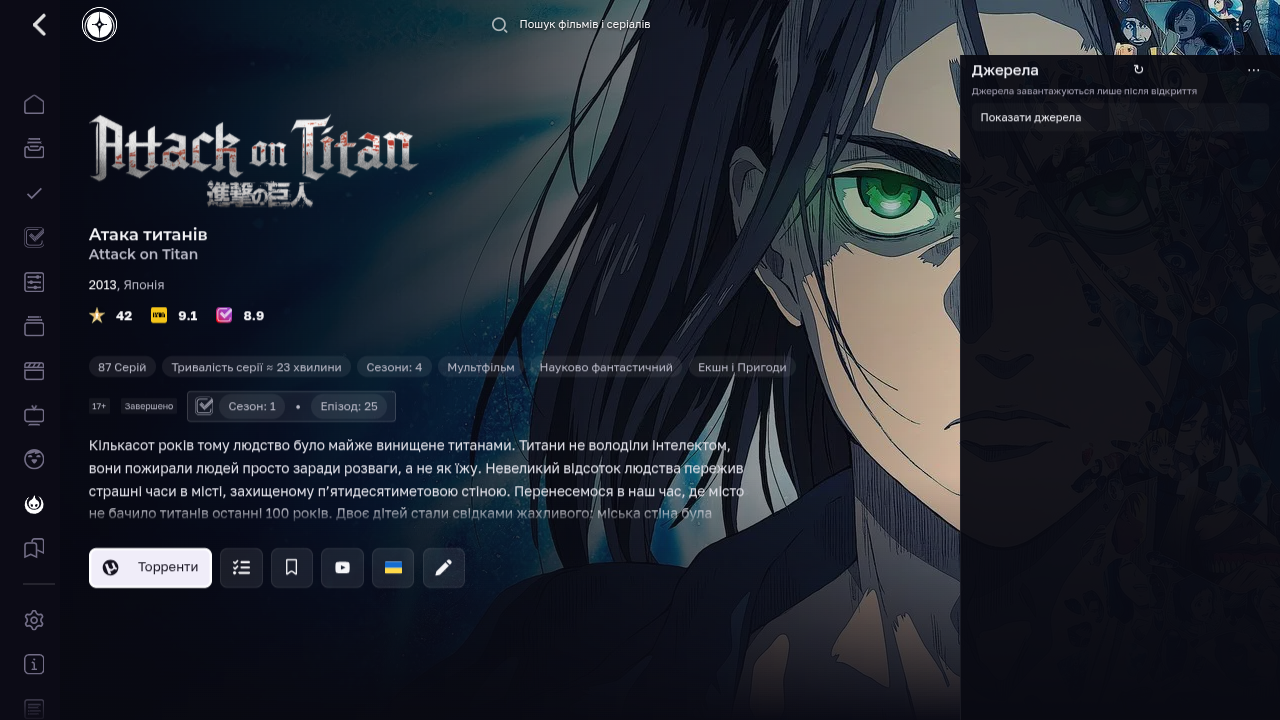
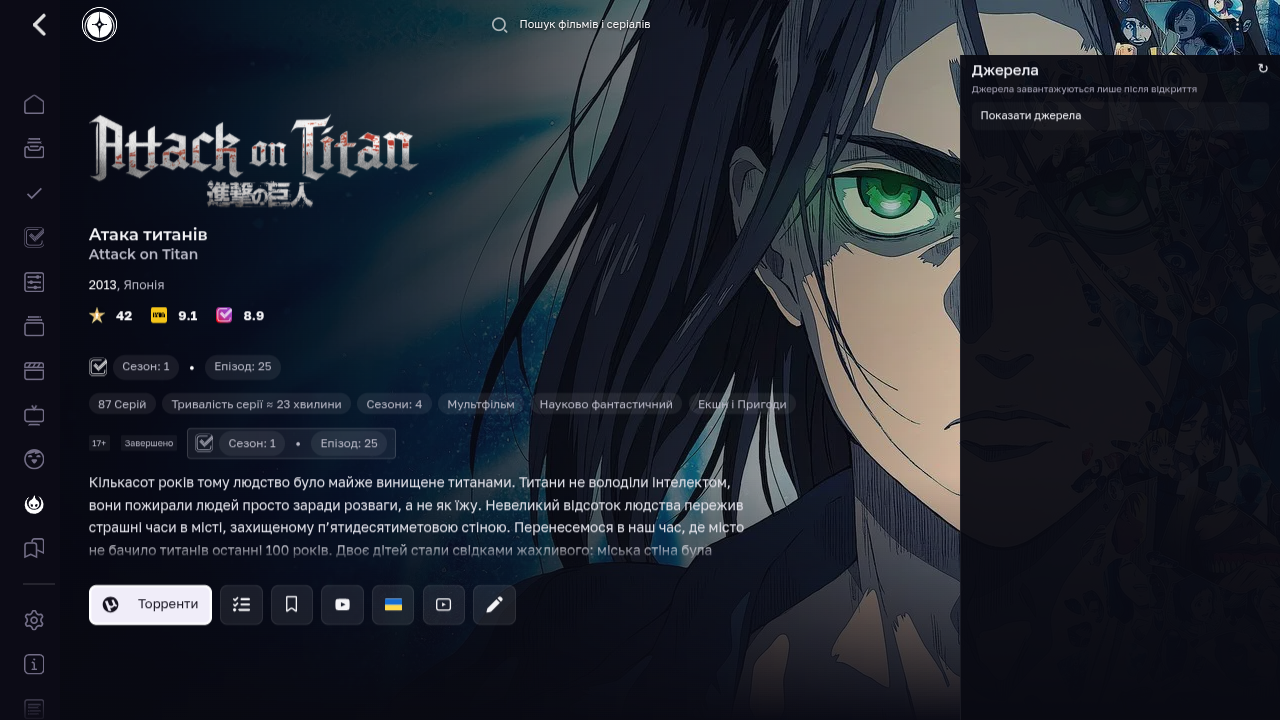
feat: style native file selection with verified episode metadata

Changed region(s): [[0.0625, 0.55, 0.625, 0.8861], [0.0625, 0.4889, 0.625, 0.5194], [0.75, 0.1222, 0.9375, 0.1833]]

diff --git a/release/stremio-hybrid/stremio-hybrid.js b/release/stremio-hybrid/stremio-hybrid.js
@@ -389,14 +389,15 @@ body.stremio-hybrid .sh-series .full-descr__text { max-height:6.6em !important; 
     function onRatingError(event){if(event.target.matches&&event.target.matches('.custom-rating .rating-icon-wrap img'))repairRatingImage(event.target);}
     function consolidateMetadata(record){
         var root=record.root,plain=root.querySelector('.cardify__details .full-start-new__details:not(.trakt)'),rich=Array.prototype.find.call(root.querySelectorAll('.full-start-new__details'),function(n){return !n.querySelector('.trakt-icon')&&!!n.querySelector('span[style]')&&/Тривалість|duration|runtime/i.test(n.textContent);});
-        if(!plain||!rich||plain===rich)return;
-        plain.classList.add('sh-metadata-shadow');rich.classList.add('sh-metadata-rich');
+        if(!rich)return;rich.classList.add('sh-metadata-rich');
+        if(!plain||plain===rich)return;
+        plain.classList.add('sh-metadata-shadow');
         if(rich.parentNode!==plain.parentNode){record.moves.push({node:rich,parent:rich.parentNode,next:rich.nextSibling});plain.parentNode.insertBefore(rich,plain);}
     }
     function updateSeriesMetadata(record){
         if(record.kind!=='tv')return;
         var movie=streamMovie(record),details=record.root.querySelector('.sh-metadata-rich')||record.root.querySelector('.cardify__details .full-start-new__details:not(.trakt)')||record.root.querySelector('.full-start-new__details:not(.trakt)');if(!details)return;
-        record.seriesFields=record.seriesFields||[];
+        (record.seriesFields||[]).forEach(function(n){n.remove();});record.seriesFields=[];
         function add(key,value){if(!value||record.seriesFields.some(function(n){return n.dataset.shField===key;}))return;var n=document.createElement('span');n.className='sh-series-field';n.dataset.shField=key;n.textContent=value;details.appendChild(n);record.seriesFields.push(n);}
         var text=details.textContent;
         if(movie.number_of_seasons>0&&!/сезон|season/i.test(text))add('seasons','Сезони: '+movie.number_of_seasons);
@@ -514,6 +515,88 @@ body.stremio-hybrid .sh-series .full-descr__text { max-height:6.6em !important; 
         ['--sm-accent','--sm-accent-rgb','--sm-accent2','--sm-accent2-rgb','--sm-accent-ink'].forEach(function(key){record.page.style.removeProperty(key);});
     }
 
+    // Files skin adapted from inspected TorrentsRedesign 1.2; native handlers stay intact.
+    css += `body.stremio-hybrid .sh-files-modal{--acc:#e0243a;--acc-rgb:224,36,58;--text:#eef1f8;--muted:#9099ad;font:clamp(1rem,1.04vw,2.6rem)/1.4 Manrope,system-ui,sans-serif;color:var(--text)}
+.ctr-select:not(.animate){visibility:hidden!important;pointer-events:none!important}
+.ctr-select .selectbox__layer{background:rgba(3,5,10,.38)!important}
+.ctr-select .selectbox__content{position:absolute!important;top:max(10vh,calc(var(--ctr-head-height,8vh) + 1.5vh));right:4.5vw;bottom:4.5vh;left:auto!important;width:38vw!important;min-width:min(26rem,91vw);height:auto!important;display:flex;flex-direction:column;padding:1em!important;background:rgba(9,12,22,.98)!important;border:1px solid rgba(255,255,255,.15);border-radius:1.1em;box-shadow:0 1em 3em rgba(0,0,0,.4);transform:none!important}
+.ctr-select .selectbox__head{padding:.35em .4em 1em!important;flex:none}
+.ctr-select .selectbox__title{font:750 1.3em/1.3 Unbounded,Manrope,system-ui,sans-serif!important}
+.ctr-select .selectbox__body{height:auto!important;min-height:0;flex:1;padding:0!important}
+.ctr-select .scroll{height:100%!important;mask-image:none!important;-webkit-mask-image:none!important}
+.ctr-select .scroll__body{padding:.35em!important}
+.ctr-select .selectbox-item{padding:.75em .8em!important;margin:0 0 .4em!important;min-height:2.8em;box-sizing:border-box;border:1px solid transparent!important;border-radius:.65em!important;background:rgba(255,255,255,.035)!important;color:var(--text)!important;font-size:1em!important}
+.ctr-select .selectbox-item__title{font-size:1em!important;white-space:normal;overflow-wrap:anywhere}
+.ctr-select .selectbox-item__subtitle{font-size:max(.8em,1rem)!important;color:var(--muted)}
+.ctr-select .selectbox-item.selected{border-color:rgba(var(--acc-rgb),.45)!important;background:rgba(var(--acc-rgb),.14)!important}
+.ctr-select .selectbox-item.focus,.ctr-select .selectbox-item:hover{border-color:#fff!important;background:rgba(var(--acc-rgb),.32)!important;box-shadow:0 0 0 .12em rgba(var(--acc-rgb),.6)!important;color:#fff!important}
+body.ctr-files-open .ctr>.explorer__files{visibility:hidden}
+body.ctr-files-open .ctr-actions{opacity:.45}
+body.stremio-hybrid .sh-files-modal{background:linear-gradient(90deg,rgba(7,9,16,.08) 25%,rgba(7,9,16,.3) 55%,rgba(7,9,16,.6))!important;inset:0!important;padding:0!important}
+body.stremio-hybrid .sh-files-modal .modal__content{position:absolute!important;top:max(10vh,calc(var(--ctr-head-height,8vh) + 1.5vh));right:4.5vw;bottom:4.5vh;left:auto!important;width:60vw!important;max-width:none!important;max-height:none!important;margin:0!important;padding:1em!important;display:flex!important;flex-direction:column;background:rgba(9,12,22,.96)!important;border:1px solid rgba(255,255,255,.15);border-radius:1.1em;box-shadow:0 1em 3em rgba(0,0,0,.3)}
+body.stremio-hybrid .sh-files-modal .modal__head{padding:.2em .4em .75em!important;flex:none}
+body.stremio-hybrid .sh-files-modal .modal__title{font:750 1.35em/1.3 Unbounded,Manrope,system-ui,sans-serif!important;margin:0!important}
+body.stremio-hybrid .sh-files-modal .sh-files-summary{font-size:max(.85em,1rem);color:var(--muted);margin-top:.3em}
+body.stremio-hybrid .sh-files-modal .modal__body{flex:1;min-height:0;padding:0!important}
+body.stremio-hybrid .sh-files-modal .scroll{height:100%!important;mask-image:none!important;-webkit-mask-image:none!important}
+body.stremio-hybrid .sh-files-modal .scroll__content{max-height:100%!important}
+body.stremio-hybrid .sh-files-modal .scroll__body{padding:.4em .4em 1em!important}
+body.stremio-hybrid .sh-files-modal .torrnet-folder-name{font:650 1em/1.4 Manrope,system-ui,sans-serif!important;color:#b8c1d5!important;padding:.65em .5em!important;margin:0 0 .5em!important;border-radius:.5em;background:rgba(var(--acc-rgb),.08)!important;overflow-wrap:anywhere}
+body.stremio-hybrid .sh-files-modal .torrent-serial,body.stremio-hybrid .sh-files-modal .torrent-file{display:grid!important;position:relative!important;grid-template-columns:7.5em minmax(0,1fr) auto;gap:.85em;align-items:center;width:100%!important;min-height:5em!important;margin:0 0 .55em!important;padding:.55em!important;border:1px solid transparent!important;border-radius:.7em!important;background:rgba(255,255,255,.04)!important;color:var(--text)!important;box-sizing:border-box;overflow:visible!important}
+body.stremio-hybrid .sh-files-modal .torrent-serial.focus,body.stremio-hybrid .sh-files-modal .torrent-file.focus,body.stremio-hybrid .sh-files-modal .torrnet-folder-name.focus,body.stremio-hybrid .sh-files-modal .torrent-serial:hover,body.stremio-hybrid .sh-files-modal .torrent-file:hover{border:1px solid #fff!important;background:rgba(var(--acc-rgb),.14)!important;box-shadow:0 0 0 .12em rgba(var(--acc-rgb),.65)!important;transform:none!important}
+body.stremio-hybrid .sh-files-modal .torrent-serial__img{position:static!important;width:7.5em!important;height:4.2em!important;object-fit:cover;border-radius:.4em;opacity:.95;float:none!important}
+body.stremio-hybrid .sh-files-modal .torrent-serial__content{display:grid!important;grid-template-columns:minmax(0,1fr) max(5em,6rem);gap:.25em .65em;padding:0!important;margin:0!important;min-width:0;width:auto!important;grid-column:2 / 4;align-items:center}
+body.stremio-hybrid .sh-files-modal .torrent-serial__body{min-width:0;float:none!important;width:auto!important}
+body.stremio-hybrid .sh-files-modal .torrent-serial__title,body.stremio-hybrid .sh-files-modal .torrent-file__title{font-size:1.05em!important;font-weight:700;line-height:1.35;white-space:normal;overflow-wrap:anywhere}
+body.stremio-hybrid .sh-files-modal .torrent-serial__line{font-size:max(.8em,1rem)!important;color:var(--muted);margin:.25em 0!important;display:flex;flex-wrap:wrap;gap:.2em .75em}
+body.stremio-hybrid .sh-files-modal .torrent-serial__detail{position:static!important;float:none!important;text-align:right;white-space:nowrap}
+body.stremio-hybrid .sh-files-modal .torrent-serial__size,body.stremio-hybrid .sh-files-modal .torrent-file__size{font-size:1em!important;font-weight:800;background:none!important;padding:0!important}
+body.stremio-hybrid .sh-files-modal .torrent-serial__exe,body.stremio-hybrid .sh-files-modal .torrent-file .exe{font-size:max(.8em,1rem)!important;color:var(--muted);margin-top:.2em}
+body.stremio-hybrid .sh-files-modal .torrent-serial__episode{position:absolute!important;top:.65em!important;left:.65em!important;right:auto!important;bottom:auto!important;font-size:max(.8em,1rem)!important;padding:.15em .35em!important;min-width:1.4em;border-radius:.3em;background:rgba(7,9,16,.82)!important}
+body.stremio-hybrid .sh-files-modal .torrent-serial__clear{display:none!important}
+body.stremio-hybrid .sh-files-modal .time-line{grid-column:1 / -1;margin:.35em 0 0!important;height:.18em!important;background:rgba(255,255,255,.12)!important;border-radius:1em}
+body.stremio-hybrid .sh-files-modal .time-line>div{background:var(--acc)!important;height:100%!important;border-radius:inherit}
+body.stremio-hybrid .sh-files-modal .torrent-file{grid-template-columns:minmax(0,1fr) auto;min-height:3.5em!important}
+body.stremio-hybrid .sh-files-modal .torrent-file__size{position:static!important;float:none!important}
+
+body.stremio-hybrid .sh-files-modal{position:fixed!important;width:100vw!important;height:100vh!important;transform:none!important}
+body.stremio-hybrid .sh-files-modal .modal__content{transform:none!important}
+@media(max-width:800px){body.stremio-hybrid .sh-files-modal .modal__content{width:91vw!important}}
+body.stremio-hybrid .sh-file-rating{grid-column:1/-1;color:#f5d48d;font-size:.9em}
+`;
+    var filesOverlay=null;
+    function streamRecord(){return movieRecords.filter(function(r){return r.streamChild&&!r.streamChild.dead&&r.page.classList.contains('activity--active');})[0];}
+    function clearStreamFiles(){
+        if(!filesOverlay)return;var node=filesOverlay.node;
+        node.classList.remove('sh-files-modal');node.querySelectorAll('.sh-files-summary,.sh-file-rating').forEach(function(n){n.remove();});
+        Object.keys(filesOverlay.tokens).forEach(function(key){var t=filesOverlay.tokens[key];if(node.style.getPropertyValue(key)===t.ours){if(t.before)node.style.setProperty(key,t.before);else node.style.removeProperty(key);}});filesOverlay=null;
+    }
+    function onStreamFiles(event){
+        var record=streamRecord(),node=event&&event.html&&(event.html[0]||event.html);
+        if(!node||!node.querySelector('.torrent-files'))return;
+        if(!record)return;
+        if(filesOverlay&&filesOverlay.node!==node)clearStreamFiles();
+        if(!filesOverlay)filesOverlay={node:node,tokens:{}};
+        node.classList.add('sh-files-modal');
+        var styles=getComputedStyle(record.page),tokens={'--acc':styles.getPropertyValue('--sm-accent').trim()||'#9775fa','--acc-rgb':styles.getPropertyValue('--sm-accent-rgb').trim()||'151,117,250','--muted':'#aeb6c9','--text':'#eef1f8','--ctr-head-height':(document.querySelector('.head').getBoundingClientRect().height/innerHeight*100)+'vh'};
+        Object.keys(tokens).forEach(function(key){if(!filesOverlay.tokens[key])filesOverlay.tokens[key]={before:node.style.getPropertyValue(key),ours:tokens[key]};node.style.setProperty(key,tokens[key]);});
+        var head=node.querySelector('.modal__head'),summary=node.querySelector('.sh-files-summary');if(!summary&&head){summary=document.createElement('div');summary.className='sh-files-summary';head.appendChild(summary);}
+        var movie=streamMovie(record);if(summary)summary.textContent=(movie.title||movie.name||'')+' · Файлів: '+node.querySelectorAll('.torrent-serial,.torrent-file').length;
+    }
+    function onStreamFile(event){
+        var record=streamRecord();if(!record||record.kind!=='tv'||!event||event.type!=='render')return;
+        var params=event.params||{},file=event.element||{},node=event.item&&(event.item[0]||event.item);
+        if(!node||!params.movie||String(params.movie.id)!==String(streamMovie(record).id)||node.querySelector('.sh-file-rating,.ctr-episode-rating'))return;
+        var season=Number(file.season),episode=Number(file.episode);
+        if(file.season==null||file.episode==null||!Number.isInteger(season)||season<0||!Number.isInteger(episode)||episode<1||(file.episodes&&file.episodes.length>1))return;
+        var data=params.seasons&&params.seasons[season],episodes=data&&data.episodes;
+        if(!Array.isArray(episodes))return;
+        var matches=episodes.filter(function(e){return e.id&&Number(e.episode_number)===episode&&(e.season_number==null||Number(e.season_number)===season);});
+        if(matches.length!==1)return;var rating=Number(matches[0].vote_average);
+        // Use already loaded episode metadata only; never borrow the series score or read API credentials.
+        if(!(rating>0&&rating<=10))return;
+        var badge=document.createElement('div');badge.className='sh-file-rating';badge.textContent='TMDB '+rating.toFixed(1);badge.title='S'+season+'E'+episode;node.querySelector('.torrent-serial__content')?.appendChild(badge);
+    }
     var streamCache=[], streamGeneration=0;
     function streamMovie(record) {
         var movie=record.activity.component.props && record.activity.component.props.get('movie');
@@ -689,6 +772,7 @@ body.stremio-hybrid .sh-series .full-descr__text { max-height:6.6em !important; 
     }
     function closeStreamChild(record) {
         var st=record.streamChild;if(!st)return;
+        clearStreamFiles();
         if(streamSelectOwner===st){clearStreamSelect();Lampa.Select.close();streamInfo(record);}
         st.dead=true;record.streamChild=null;
         if(st.queryFilter){var enabled=Lampa.Controller.enabled();if(document.querySelector('.search-box')&&enabled.controller&&typeof enabled.controller.back==='function')enabled.controller.back();disposeStreamQuery(st);}
@@ -903,13 +987,13 @@ body.stremio-hybrid .sh-series .full-descr__text { max-height:6.6em !important; 
         backdropApi=null;backdropGet=null;backdropWrapper=null;backdropRotation=null;
     }
     function setupUI() {
-        if (!watching) { Lampa.Listener.follow('activity', onActivity); Lampa.Listener.follow('full',onMovieFull); Lampa.Controller.listener.follow('toggle',onStreamController); Lampa.Select.listener.follow('fullshow',onStreamSelect); Lampa.Select.listener.follow('hide',clearStreamSelect); Lampa.Storage.listener.follow('change',onStreamSettings); Lampa.Search.listener.follow('close', onSearchClose); Lampa.Search.listener.follow('sources',onSearchSources); Lampa.Settings.listener.follow('open',onSettingsOpen); Lampa.Settings.listener.follow('close',onSettingsClose); document.addEventListener('error',onRatingError,true); document.addEventListener('keydown',onSettingsKey,true); document.addEventListener('keyup',onSettingsKey,true); installSettingsController(); watching=true; installBackdropPacing(); }
+        if (!watching) { Lampa.Listener.follow('activity', onActivity); Lampa.Listener.follow('full',onMovieFull); Lampa.Controller.listener.follow('toggle',onStreamController); Lampa.Modal.listener.follow('fullshow',onStreamFiles); Lampa.Modal.listener.follow('update',onStreamFiles); Lampa.Modal.listener.follow('close',clearStreamFiles); Lampa.Listener.follow('torrent_file',onStreamFile); Lampa.Select.listener.follow('fullshow',onStreamSelect); Lampa.Select.listener.follow('hide',clearStreamSelect); Lampa.Storage.listener.follow('change',onStreamSettings); Lampa.Search.listener.follow('close', onSearchClose); Lampa.Search.listener.follow('sources',onSearchSources); Lampa.Settings.listener.follow('open',onSettingsOpen); Lampa.Settings.listener.follow('close',onSettingsClose); document.addEventListener('error',onRatingError,true); document.addEventListener('keydown',onSettingsKey,true); document.addEventListener('keyup',onSettingsKey,true); installSettingsController(); watching=true; installBackdropPacing(); }
         setupHeader(); scheduleMovie();
         if(document.body.classList.contains('settings--open')) onSettingsOpen({name:'resume'});
     }
     function removeUI() {
         removeBackdropPacing();
-        if (watching) { Lampa.Listener.remove('activity', onActivity); Lampa.Listener.remove('full',onMovieFull); Lampa.Controller.listener.remove('toggle',onStreamController); Lampa.Select.listener.remove('fullshow',onStreamSelect); Lampa.Select.listener.remove('hide',clearStreamSelect); Lampa.Storage.listener.remove('change',onStreamSettings); streamCache=[]; brandPending={}; Lampa.Search.listener.remove('close', onSearchClose); Lampa.Search.listener.remove('sources',onSearchSources); Lampa.Settings.listener.remove('open',onSettingsOpen); Lampa.Settings.listener.remove('close',onSettingsClose); document.removeEventListener('error',onRatingError,true); document.removeEventListener('keydown',onSettingsKey,true); document.removeEventListener('keyup',onSettingsKey,true); settingsLeftConsumed=false; watching=false; }
+        if (watching) { Lampa.Listener.remove('activity', onActivity); Lampa.Listener.remove('full',onMovieFull); Lampa.Controller.listener.remove('toggle',onStreamController); Lampa.Modal.listener.remove('fullshow',onStreamFiles); Lampa.Modal.listener.remove('update',onStreamFiles); Lampa.Modal.listener.remove('close',clearStreamFiles); Lampa.Listener.remove('torrent_file',onStreamFile); clearStreamFiles(); Lampa.Select.listener.remove('fullshow',onStreamSelect); Lampa.Select.listener.remove('hide',clearStreamSelect); Lampa.Storage.listener.remove('change',onStreamSettings); streamCache=[]; brandPending={}; Lampa.Search.listener.remove('close', onSearchClose); Lampa.Search.listener.remove('sources',onSearchSources); Lampa.Settings.listener.remove('open',onSettingsOpen); Lampa.Settings.listener.remove('close',onSettingsClose); document.removeEventListener('error',onRatingError,true); document.removeEventListener('keydown',onSettingsKey,true); document.removeEventListener('keyup',onSettingsKey,true); settingsLeftConsumed=false; watching=false; }
         removeSettingsUI();
         removeMovies();clearStreamSelect();
         clearSearchSources();
@@ -1085,7 +1169,7 @@ body.stremio-hybrid .sh-series .full-descr__text { max-height:6.6em !important; 
         apply(enabled());
     }
     window.StremioHybrid = {
-        version: '2.5.0',
+        version: '2.5.1',
         setEnabled: setEnabled,
         refresh: function () { if (ready) apply(enabled()); },
         destroy: function () {

diff --git a/ui/stremio-hybrid.js b/ui/stremio-hybrid.js
@@ -389,14 +389,15 @@ body.stremio-hybrid .sh-series .full-descr__text { max-height:6.6em !important; 
     function onRatingError(event){if(event.target.matches&&event.target.matches('.custom-rating .rating-icon-wrap img'))repairRatingImage(event.target);}
     function consolidateMetadata(record){
         var root=record.root,plain=root.querySelector('.cardify__details .full-start-new__details:not(.trakt)'),rich=Array.prototype.find.call(root.querySelectorAll('.full-start-new__details'),function(n){return !n.querySelector('.trakt-icon')&&!!n.querySelector('span[style]')&&/Тривалість|duration|runtime/i.test(n.textContent);});
-        if(!plain||!rich||plain===rich)return;
-        plain.classList.add('sh-metadata-shadow');rich.classList.add('sh-metadata-rich');
+        if(!rich)return;rich.classList.add('sh-metadata-rich');
+        if(!plain||plain===rich)return;
+        plain.classList.add('sh-metadata-shadow');
         if(rich.parentNode!==plain.parentNode){record.moves.push({node:rich,parent:rich.parentNode,next:rich.nextSibling});plain.parentNode.insertBefore(rich,plain);}
     }
     function updateSeriesMetadata(record){
         if(record.kind!=='tv')return;
         var movie=streamMovie(record),details=record.root.querySelector('.sh-metadata-rich')||record.root.querySelector('.cardify__details .full-start-new__details:not(.trakt)')||record.root.querySelector('.full-start-new__details:not(.trakt)');if(!details)return;
-        record.seriesFields=record.seriesFields||[];
+        (record.seriesFields||[]).forEach(function(n){n.remove();});record.seriesFields=[];
         function add(key,value){if(!value||record.seriesFields.some(function(n){return n.dataset.shField===key;}))return;var n=document.createElement('span');n.className='sh-series-field';n.dataset.shField=key;n.textContent=value;details.appendChild(n);record.seriesFields.push(n);}
         var text=details.textContent;
         if(movie.number_of_seasons>0&&!/сезон|season/i.test(text))add('seasons','Сезони: '+movie.number_of_seasons);
@@ -514,6 +515,88 @@ body.stremio-hybrid .sh-series .full-descr__text { max-height:6.6em !important; 
         ['--sm-accent','--sm-accent-rgb','--sm-accent2','--sm-accent2-rgb','--sm-accent-ink'].forEach(function(key){record.page.style.removeProperty(key);});
     }
 
+    // Files skin adapted from inspected TorrentsRedesign 1.2; native handlers stay intact.
+    css += `body.stremio-hybrid .sh-files-modal{--acc:#e0243a;--acc-rgb:224,36,58;--text:#eef1f8;--muted:#9099ad;font:clamp(1rem,1.04vw,2.6rem)/1.4 Manrope,system-ui,sans-serif;color:var(--text)}
+.ctr-select:not(.animate){visibility:hidden!important;pointer-events:none!important}
+.ctr-select .selectbox__layer{background:rgba(3,5,10,.38)!important}
+.ctr-select .selectbox__content{position:absolute!important;top:max(10vh,calc(var(--ctr-head-height,8vh) + 1.5vh));right:4.5vw;bottom:4.5vh;left:auto!important;width:38vw!important;min-width:min(26rem,91vw);height:auto!important;display:flex;flex-direction:column;padding:1em!important;background:rgba(9,12,22,.98)!important;border:1px solid rgba(255,255,255,.15);border-radius:1.1em;box-shadow:0 1em 3em rgba(0,0,0,.4);transform:none!important}
+.ctr-select .selectbox__head{padding:.35em .4em 1em!important;flex:none}
+.ctr-select .selectbox__title{font:750 1.3em/1.3 Unbounded,Manrope,system-ui,sans-serif!important}
+.ctr-select .selectbox__body{height:auto!important;min-height:0;flex:1;padding:0!important}
+.ctr-select .scroll{height:100%!important;mask-image:none!important;-webkit-mask-image:none!important}
+.ctr-select .scroll__body{padding:.35em!important}
+.ctr-select .selectbox-item{padding:.75em .8em!important;margin:0 0 .4em!important;min-height:2.8em;box-sizing:border-box;border:1px solid transparent!important;border-radius:.65em!important;background:rgba(255,255,255,.035)!important;color:var(--text)!important;font-size:1em!important}
+.ctr-select .selectbox-item__title{font-size:1em!important;white-space:normal;overflow-wrap:anywhere}
+.ctr-select .selectbox-item__subtitle{font-size:max(.8em,1rem)!important;color:var(--muted)}
+.ctr-select .selectbox-item.selected{border-color:rgba(var(--acc-rgb),.45)!important;background:rgba(var(--acc-rgb),.14)!important}
+.ctr-select .selectbox-item.focus,.ctr-select .selectbox-item:hover{border-color:#fff!important;background:rgba(var(--acc-rgb),.32)!important;box-shadow:0 0 0 .12em rgba(var(--acc-rgb),.6)!important;color:#fff!important}
+body.ctr-files-open .ctr>.explorer__files{visibility:hidden}
+body.ctr-files-open .ctr-actions{opacity:.45}
+body.stremio-hybrid .sh-files-modal{background:linear-gradient(90deg,rgba(7,9,16,.08) 25%,rgba(7,9,16,.3) 55%,rgba(7,9,16,.6))!important;inset:0!important;padding:0!important}
+body.stremio-hybrid .sh-files-modal .modal__content{position:absolute!important;top:max(10vh,calc(var(--ctr-head-height,8vh) + 1.5vh));right:4.5vw;bottom:4.5vh;left:auto!important;width:60vw!important;max-width:none!important;max-height:none!important;margin:0!important;padding:1em!important;display:flex!important;flex-direction:column;background:rgba(9,12,22,.96)!important;border:1px solid rgba(255,255,255,.15);border-radius:1.1em;box-shadow:0 1em 3em rgba(0,0,0,.3)}
+body.stremio-hybrid .sh-files-modal .modal__head{padding:.2em .4em .75em!important;flex:none}
+body.stremio-hybrid .sh-files-modal .modal__title{font:750 1.35em/1.3 Unbounded,Manrope,system-ui,sans-serif!important;margin:0!important}
+body.stremio-hybrid .sh-files-modal .sh-files-summary{font-size:max(.85em,1rem);color:var(--muted);margin-top:.3em}
+body.stremio-hybrid .sh-files-modal .modal__body{flex:1;min-height:0;padding:0!important}
+body.stremio-hybrid .sh-files-modal .scroll{height:100%!important;mask-image:none!important;-webkit-mask-image:none!important}
+body.stremio-hybrid .sh-files-modal .scroll__content{max-height:100%!important}
+body.stremio-hybrid .sh-files-modal .scroll__body{padding:.4em .4em 1em!important}
+body.stremio-hybrid .sh-files-modal .torrnet-folder-name{font:650 1em/1.4 Manrope,system-ui,sans-serif!important;color:#b8c1d5!important;padding:.65em .5em!important;margin:0 0 .5em!important;border-radius:.5em;background:rgba(var(--acc-rgb),.08)!important;overflow-wrap:anywhere}
+body.stremio-hybrid .sh-files-modal .torrent-serial,body.stremio-hybrid .sh-files-modal .torrent-file{display:grid!important;position:relative!important;grid-template-columns:7.5em minmax(0,1fr) auto;gap:.85em;align-items:center;width:100%!important;min-height:5em!important;margin:0 0 .55em!important;padding:.55em!important;border:1px solid transparent!important;border-radius:.7em!important;background:rgba(255,255,255,.04)!important;color:var(--text)!important;box-sizing:border-box;overflow:visible!important}
+body.stremio-hybrid .sh-files-modal .torrent-serial.focus,body.stremio-hybrid .sh-files-modal .torrent-file.focus,body.stremio-hybrid .sh-files-modal .torrnet-folder-name.focus,body.stremio-hybrid .sh-files-modal .torrent-serial:hover,body.stremio-hybrid .sh-files-modal .torrent-file:hover{border:1px solid #fff!important;background:rgba(var(--acc-rgb),.14)!important;box-shadow:0 0 0 .12em rgba(var(--acc-rgb),.65)!important;transform:none!important}
+body.stremio-hybrid .sh-files-modal .torrent-serial__img{position:static!important;width:7.5em!important;height:4.2em!important;object-fit:cover;border-radius:.4em;opacity:.95;float:none!important}
+body.stremio-hybrid .sh-files-modal .torrent-serial__content{display:grid!important;grid-template-columns:minmax(0,1fr) max(5em,6rem);gap:.25em .65em;padding:0!important;margin:0!important;min-width:0;width:auto!important;grid-column:2 / 4;align-items:center}
+body.stremio-hybrid .sh-files-modal .torrent-serial__body{min-width:0;float:none!important;width:auto!important}
+body.stremio-hybrid .sh-files-modal .torrent-serial__title,body.stremio-hybrid .sh-files-modal .torrent-file__title{font-size:1.05em!important;font-weight:700;line-height:1.35;white-space:normal;overflow-wrap:anywhere}
+body.stremio-hybrid .sh-files-modal .torrent-serial__line{font-size:max(.8em,1rem)!important;color:var(--muted);margin:.25em 0!important;display:flex;flex-wrap:wrap;gap:.2em .75em}
+body.stremio-hybrid .sh-files-modal .torrent-serial__detail{position:static!important;float:none!important;text-align:right;white-space:nowrap}
+body.stremio-hybrid .sh-files-modal .torrent-serial__size,body.stremio-hybrid .sh-files-modal .torrent-file__size{font-size:1em!important;font-weight:800;background:none!important;padding:0!important}
+body.stremio-hybrid .sh-files-modal .torrent-serial__exe,body.stremio-hybrid .sh-files-modal .torrent-file .exe{font-size:max(.8em,1rem)!important;color:var(--muted);margin-top:.2em}
+body.stremio-hybrid .sh-files-modal .torrent-serial__episode{position:absolute!important;top:.65em!important;left:.65em!important;right:auto!important;bottom:auto!important;font-size:max(.8em,1rem)!important;padding:.15em .35em!important;min-width:1.4em;border-radius:.3em;background:rgba(7,9,16,.82)!important}
+body.stremio-hybrid .sh-files-modal .torrent-serial__clear{display:none!important}
+body.stremio-hybrid .sh-files-modal .time-line{grid-column:1 / -1;margin:.35em 0 0!important;height:.18em!important;background:rgba(255,255,255,.12)!important;border-radius:1em}
+body.stremio-hybrid .sh-files-modal .time-line>div{background:var(--acc)!important;height:100%!important;border-radius:inherit}
+body.stremio-hybrid .sh-files-modal .torrent-file{grid-template-columns:minmax(0,1fr) auto;min-height:3.5em!important}
+body.stremio-hybrid .sh-files-modal .torrent-file__size{position:static!important;float:none!important}
+
+body.stremio-hybrid .sh-files-modal{position:fixed!important;width:100vw!important;height:100vh!important;transform:none!important}
+body.stremio-hybrid .sh-files-modal .modal__content{transform:none!important}
+@media(max-width:800px){body.stremio-hybrid .sh-files-modal .modal__content{width:91vw!important}}
+body.stremio-hybrid .sh-file-rating{grid-column:1/-1;color:#f5d48d;font-size:.9em}
+`;
+    var filesOverlay=null;
+    function streamRecord(){return movieRecords.filter(function(r){return r.streamChild&&!r.streamChild.dead&&r.page.classList.contains('activity--active');})[0];}
+    function clearStreamFiles(){
+        if(!filesOverlay)return;var node=filesOverlay.node;
+        node.classList.remove('sh-files-modal');node.querySelectorAll('.sh-files-summary,.sh-file-rating').forEach(function(n){n.remove();});
+        Object.keys(filesOverlay.tokens).forEach(function(key){var t=filesOverlay.tokens[key];if(node.style.getPropertyValue(key)===t.ours){if(t.before)node.style.setProperty(key,t.before);else node.style.removeProperty(key);}});filesOverlay=null;
+    }
+    function onStreamFiles(event){
+        var record=streamRecord(),node=event&&event.html&&(event.html[0]||event.html);
+        if(!node||!node.querySelector('.torrent-files'))return;
+        if(!record)return;
+        if(filesOverlay&&filesOverlay.node!==node)clearStreamFiles();
+        if(!filesOverlay)filesOverlay={node:node,tokens:{}};
+        node.classList.add('sh-files-modal');
+        var styles=getComputedStyle(record.page),tokens={'--acc':styles.getPropertyValue('--sm-accent').trim()||'#9775fa','--acc-rgb':styles.getPropertyValue('--sm-accent-rgb').trim()||'151,117,250','--muted':'#aeb6c9','--text':'#eef1f8','--ctr-head-height':(document.querySelector('.head').getBoundingClientRect().height/innerHeight*100)+'vh'};
+        Object.keys(tokens).forEach(function(key){if(!filesOverlay.tokens[key])filesOverlay.tokens[key]={before:node.style.getPropertyValue(key),ours:tokens[key]};node.style.setProperty(key,tokens[key]);});
+        var head=node.querySelector('.modal__head'),summary=node.querySelector('.sh-files-summary');if(!summary&&head){summary=document.createElement('div');summary.className='sh-files-summary';head.appendChild(summary);}
+        var movie=streamMovie(record);if(summary)summary.textContent=(movie.title||movie.name||'')+' · Файлів: '+node.querySelectorAll('.torrent-serial,.torrent-file').length;
+    }
+    function onStreamFile(event){
+        var record=streamRecord();if(!record||record.kind!=='tv'||!event||event.type!=='render')return;
+        var params=event.params||{},file=event.element||{},node=event.item&&(event.item[0]||event.item);
+        if(!node||!params.movie||String(params.movie.id)!==String(streamMovie(record).id)||node.querySelector('.sh-file-rating,.ctr-episode-rating'))return;
+        var season=Number(file.season),episode=Number(file.episode);
+        if(file.season==null||file.episode==null||!Number.isInteger(season)||season<0||!Number.isInteger(episode)||episode<1||(file.episodes&&file.episodes.length>1))return;
+        var data=params.seasons&&params.seasons[season],episodes=data&&data.episodes;
+        if(!Array.isArray(episodes))return;
+        var matches=episodes.filter(function(e){return e.id&&Number(e.episode_number)===episode&&(e.season_number==null||Number(e.season_number)===season);});
+        if(matches.length!==1)return;var rating=Number(matches[0].vote_average);
+        // Use already loaded episode metadata only; never borrow the series score or read API credentials.
+        if(!(rating>0&&rating<=10))return;
+        var badge=document.createElement('div');badge.className='sh-file-rating';badge.textContent='TMDB '+rating.toFixed(1);badge.title='S'+season+'E'+episode;node.querySelector('.torrent-serial__content')?.appendChild(badge);
+    }
     var streamCache=[], streamGeneration=0;
     function streamMovie(record) {
         var movie=record.activity.component.props && record.activity.component.props.get('movie');
@@ -689,6 +772,7 @@ body.stremio-hybrid .sh-series .full-descr__text { max-height:6.6em !important; 
     }
     function closeStreamChild(record) {
         var st=record.streamChild;if(!st)return;
+        clearStreamFiles();
         if(streamSelectOwner===st){clearStreamSelect();Lampa.Select.close();streamInfo(record);}
         st.dead=true;record.streamChild=null;
         if(st.queryFilter){var enabled=Lampa.Controller.enabled();if(document.querySelector('.search-box')&&enabled.controller&&typeof enabled.controller.back==='function')enabled.controller.back();disposeStreamQuery(st);}
@@ -903,13 +987,13 @@ body.stremio-hybrid .sh-series .full-descr__text { max-height:6.6em !important; 
         backdropApi=null;backdropGet=null;backdropWrapper=null;backdropRotation=null;
     }
     function setupUI() {
-        if (!watching) { Lampa.Listener.follow('activity', onActivity); Lampa.Listener.follow('full',onMovieFull); Lampa.Controller.listener.follow('toggle',onStreamController); Lampa.Select.listener.follow('fullshow',onStreamSelect); Lampa.Select.listener.follow('hide',clearStreamSelect); Lampa.Storage.listener.follow('change',onStreamSettings); Lampa.Search.listener.follow('close', onSearchClose); Lampa.Search.listener.follow('sources',onSearchSources); Lampa.Settings.listener.follow('open',onSettingsOpen); Lampa.Settings.listener.follow('close',onSettingsClose); document.addEventListener('error',onRatingError,true); document.addEventListener('keydown',onSettingsKey,true); document.addEventListener('keyup',onSettingsKey,true); installSettingsController(); watching=true; installBackdropPacing(); }
+        if (!watching) { Lampa.Listener.follow('activity', onActivity); Lampa.Listener.follow('full',onMovieFull); Lampa.Controller.listener.follow('toggle',onStreamController); Lampa.Modal.listener.follow('fullshow',onStreamFiles); Lampa.Modal.listener.follow('update',onStreamFiles); Lampa.Modal.listener.follow('close',clearStreamFiles); Lampa.Listener.follow('torrent_file',onStreamFile); Lampa.Select.listener.follow('fullshow',onStreamSelect); Lampa.Select.listener.follow('hide',clearStreamSelect); Lampa.Storage.listener.follow('change',onStreamSettings); Lampa.Search.listener.follow('close', onSearchClose); Lampa.Search.listener.follow('sources',onSearchSources); Lampa.Settings.listener.follow('open',onSettingsOpen); Lampa.Settings.listener.follow('close',onSettingsClose); document.addEventListener('error',onRatingError,true); document.addEventListener('keydown',onSettingsKey,true); document.addEventListener('keyup',onSettingsKey,true); installSettingsController(); watching=true; installBackdropPacing(); }
         setupHeader(); scheduleMovie();
         if(document.body.classList.contains('settings--open')) onSettingsOpen({name:'resume'});
     }
     function removeUI() {
         removeBackdropPacing();
-        if (watching) { Lampa.Listener.remove('activity', onActivity); Lampa.Listener.remove('full',onMovieFull); Lampa.Controller.listener.remove('toggle',onStreamController); Lampa.Select.listener.remove('fullshow',onStreamSelect); Lampa.Select.listener.remove('hide',clearStreamSelect); Lampa.Storage.listener.remove('change',onStreamSettings); streamCache=[]; brandPending={}; Lampa.Search.listener.remove('close', onSearchClose); Lampa.Search.listener.remove('sources',onSearchSources); Lampa.Settings.listener.remove('open',onSettingsOpen); Lampa.Settings.listener.remove('close',onSettingsClose); document.removeEventListener('error',onRatingError,true); document.removeEventListener('keydown',onSettingsKey,true); document.removeEventListener('keyup',onSettingsKey,true); settingsLeftConsumed=false; watching=false; }
+        if (watching) { Lampa.Listener.remove('activity', onActivity); Lampa.Listener.remove('full',onMovieFull); Lampa.Controller.listener.remove('toggle',onStreamController); Lampa.Modal.listener.remove('fullshow',onStreamFiles); Lampa.Modal.listener.remove('update',onStreamFiles); Lampa.Modal.listener.remove('close',clearStreamFiles); Lampa.Listener.remove('torrent_file',onStreamFile); clearStreamFiles(); Lampa.Select.listener.remove('fullshow',onStreamSelect); Lampa.Select.listener.remove('hide',clearStreamSelect); Lampa.Storage.listener.remove('change',onStreamSettings); streamCache=[]; brandPending={}; Lampa.Search.listener.remove('close', onSearchClose); Lampa.Search.listener.remove('sources',onSearchSources); Lampa.Settings.listener.remove('open',onSettingsOpen); Lampa.Settings.listener.remove('close',onSettingsClose); document.removeEventListener('error',onRatingError,true); document.removeEventListener('keydown',onSettingsKey,true); document.removeEventListener('keyup',onSettingsKey,true); settingsLeftConsumed=false; watching=false; }
         removeSettingsUI();
         removeMovies();clearStreamSelect();
         clearSearchSources();
@@ -1085,7 +1169,7 @@ body.stremio-hybrid .sh-series .full-descr__text { max-height:6.6em !important; 
         apply(enabled());
     }
     window.StremioHybrid = {
-        version: '2.5.0',
+        version: '2.5.1',
         setEnabled: setEnabled,
         refresh: function () { if (ready) apply(enabled()); },
         destroy: function () {

diff --git a/CODEX_PROGRESS.md b/CODEX_PROGRESS.md
@@ -227,3 +227,12 @@
 - inline-search-report: 10 PASS/errors=[], real native alternative menu choice and keyboard Back/disable; global callback controlled. No playback. Screenshots inline-search-menu/results.png. Existing owner fixes unchanged.
 - Next: Files view/verified episode ratings; parser picker if supported; best-choice semantics (currently release badge, not standalone mode); then Home/favorites. Physical TV/TorrServer/player remain BLOCKED.
 - Commit: fix: keep native source clarification inside media details.
+
+## Stage2b Files presentation 2.5.1
+- Scoped native Files modal skin adapted from inspected TorrentsRedesign1.2. Preserves native serial/file templates, Timeline, handlers and modal controller; title/file-count summary, palette, safe cleanup on close/disable/child destroy.
+- Episode score from already loaded params.seasons only, explicitly labelled TMDB. Requires one matching season+episode with ID; missing/multi-episode files omitted. No series score reuse, new API requests, key reads or extra observers. Local1.2 IMDb loader not active in installed1.1; real IMDb restoration remains pending, not falsely claimed.
+- files-report: 11 PASS/errors=[], controlled native templates/metadata/OK spy; 720/1080/4K, native Down/OK/Back, repeated open, disable preserving native four rows. First draft CSS extraction was empty (earlier @media boundary); corrected scoped extraction and full fixed root before final checks. Real TorrServer/player BLOCKED, never played a random release.
+- Follow-up shared metadata: mark rich block even when already correct owner node; rebuild only own supplemental fields during bounded passes so late native metadata cannot duplicate counts. Repeated details-report26PASS/errors=[].
+- Source audit: “Найкращий вибір” is currently a badge on ranked real releases, NOT a separate supported selector option. No fabricated mode inserted. Native sorting remains authoritative; always-first best option cannot be claimed without new defined mode. Old Activity retained for unverified search/history/plugin routes and playback dependencies.
+- Files: ui/stremio-hybrid.js, README/package, files/detail reports/screenshots. Next: real Files/TorrServer and parser selection; Home profile/continue row, favorites, then remaining requested architecture. Critical real-player checks stay BLOCKED; do not remove core controller.
+- Commit: feat: style native file selection with verified episode metadata.

diff --git a/README-stremio-hybrid.md b/README-stremio-hybrid.md
@@ -1,6 +1,12 @@
-# Stremio × Lampa 2.5.0
+# Stremio × Lampa 2.5.1
 
 Продовження `design/stremio-hybrid-x11`. Git-репозиторій: `audit/stremio-hybrid-20261022/repository`. Основний плагін — `ui/stremio-hybrid.js`; синхронна копія в кореневій `ui/` використовується локальним сервером. Пакет — `release/stremio-hybrid/`.
+
+## Файли (2.5.1)
+
+Штатний modal вибору файлів із вбудованих джерел отримує ізольований дизайн TorrentsRedesign: темна права панель, назва медіа, кількість файлів, компактні ряди й фокус. Native handlers, Timeline та playback не замінені. Оцінка **TMDB конкретного епізоду** додається лише з уже отриманого `params.seasons`, коли є однозначні season/episode та episode ID; змішані/невідомі файли не отримують чужої оцінки. Нових rating API-запитів або доступу до ключів немає. Це не IMDb: розширений IMDb-механізм локальної TorrentsRedesign 1.2 ще не встановлений і його не видаємо за чинну 1.1.
+
+11 PASS у контрольованому native modal (720p/1080p/4K, Down/OK/Back, повторне відкриття/відкат); реальні багатофайлові TorrServer потоки та player return ще BLOCKED. 26 перевірок деталей повторені після виправлення пізнього надходження метаданих Interface+.
 
 ## Вбудований пошук джерел (2.5.0)
 

diff --git a/release/stremio-hybrid/INSTALL-UA.md b/release/stremio-hybrid/INSTALL-UA.md
@@ -1,6 +1,12 @@
-# Stremio × Lampa 2.5.0
+# Stremio × Lampa 2.5.1
 
 Продовження `design/stremio-hybrid-x11`. Git-репозиторій: `audit/stremio-hybrid-20261022/repository`. Основний плагін — `ui/stremio-hybrid.js`; синхронна копія в кореневій `ui/` використовується локальним сервером. Пакет — `release/stremio-hybrid/`.
+
+## Файли (2.5.1)
+
+Штатний modal вибору файлів із вбудованих джерел отримує ізольований дизайн TorrentsRedesign: темна права панель, назва медіа, кількість файлів, компактні ряди й фокус. Native handlers, Timeline та playback не замінені. Оцінка **TMDB конкретного епізоду** додається лише з уже отриманого `params.seasons`, коли є однозначні season/episode та episode ID; змішані/невідомі файли не отримують чужої оцінки. Нових rating API-запитів або доступу до ключів немає. Це не IMDb: розширений IMDb-механізм локальної TorrentsRedesign 1.2 ще не встановлений і його не видаємо за чинну 1.1.
+
+11 PASS у контрольованому native modal (720p/1080p/4K, Down/OK/Back, повторне відкриття/відкат); реальні багатофайлові TorrServer потоки та player return ще BLOCKED. 26 перевірок деталей повторені після виправлення пізнього надходження метаданих Interface+.
 
 ## Вбудований пошук джерел (2.5.0)
 
